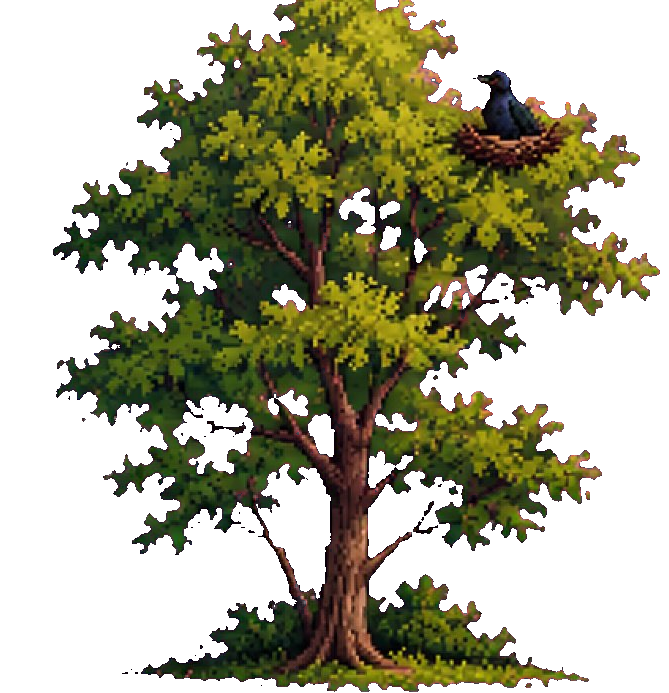
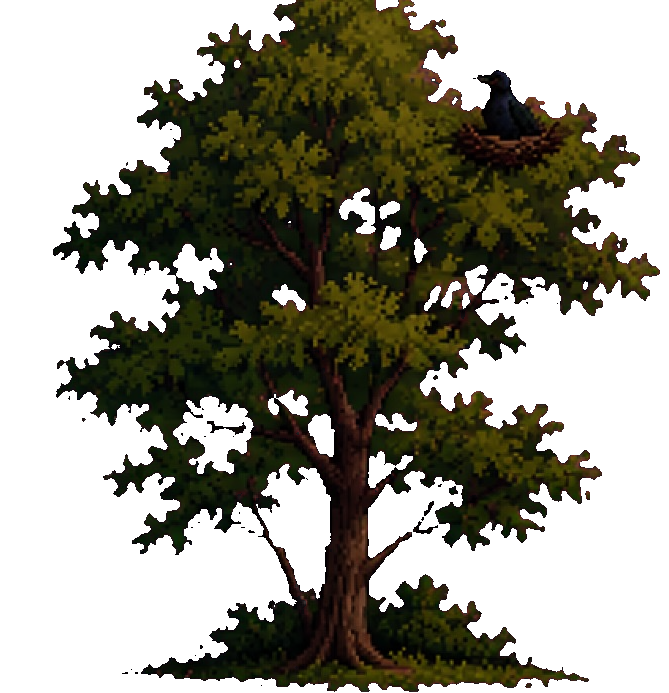
Nestbaum in Discount-Gasse, Weiche-Kraehe groesser (v76)

diff --git a/kaufvertrag_demo.html b/kaufvertrag_demo.html
@@ -956,7 +956,7 @@ ende: pxSzene('#000010', (R,D)=>{
    Liegen im Repo PNGs mit diesen Namen, werden sie automatisch
    statt der Pixel-Programme geladen. Fehlen sie: Pixel-Fallback.
    ===================================================== */
-const BILD_VERSION = '75';
+const BILD_VERSION = '76';
 function vurl(u){ return u + '?v=' + BILD_VERSION; }
 const SZENEN_BILDER = {
   titel:'kaufvertrag_titel.png',
@@ -1099,16 +1099,16 @@ const SPRITES = {
     { id:'trektor', frames:['figur_rektor_steh_3.png','figur_rektor_steh_3.png','figur_rektor_geh_0.png','figur_rektor_geh_1.png','figur_rektor_geh_2.png','figur_rektor_geh_3.png','figur_rektor_geh_4.png','figur_rektor_geh_5.png','figur_rektor_kopf_0.png','figur_rektor_kopf_1.png','figur_rektor_kopf_2.png','figur_rektor_kopf_5.png'], x:252, y:98, w:38, h:152 },
   ],
   weiche: [
-    { id:'kraehe', frames:['kaufvertrag_kraehe_0.png','kaufvertrag_kraehe_1.png','kaufvertrag_kraehe_2.png'], x:40, y:123, w:17, h:11.5 },
+    { id:'kraehe', frames:['kaufvertrag_kraehe_0.png','kaufvertrag_kraehe_1.png','kaufvertrag_kraehe_2.png'], x:37.4, y:119.6, w:22.1, h:15 },
   ],
   titel: [
-    { id:'nestbaum', frames:['kaufvertrag_nestbaum_0.png','kaufvertrag_nestbaum_1.png','kaufvertrag_nestbaum_2.png'], x:521.6, y:88, w:88.8, h:92 },
     { id:'taubeA', frames:['kaufvertrag_taube_a0.png','kaufvertrag_taube_a1.png'], x:336, y:186, w:18, h:12 },
     { id:'taubeB', frames:['kaufvertrag_taube_b0.png','kaufvertrag_taube_b1.png'], x:356, y:188, w:17, h:11 },
     { id:'auto', frames:['kaufvertrag_auto_0.png','kaufvertrag_auto_1.png','kaufvertrag_auto_2.png','kaufvertrag_auto_3.png','kaufvertrag_auto_4.png','kaufvertrag_auto_5.png','kaufvertrag_auto_6.png','kaufvertrag_auto_7.png','kaufvertrag_auto_8.png','kaufvertrag_auto_halt.png'],
       x:660, y:172, w:94, h:51 },
   ],
   discount: [
+    { id:'nestbaum', frames:['kaufvertrag_nestbaum_0.png','kaufvertrag_nestbaum_1.png','kaufvertrag_nestbaum_2.png'], x:452, y:121, w:78, h:81 },
     { id:'katze', frames:['kaufvertrag_katze_0.png','kaufvertrag_katze_1.png','kaufvertrag_katze_2.png',
       'kaufvertrag_katze_3.png','kaufvertrag_katze_4.png','kaufvertrag_katze_5.png','kaufvertrag_katze_6.png'],
       x:680, y:198, w:30, h:24 },
@@ -2334,7 +2334,7 @@ function nestStart(){
   if(reduzierteBewegung()) return;
   nestT.t = setInterval(()=>{
     const e = document.getElementById('sp-nestbaum');
-    if(!e || aktuelleSzeneId!=='titel') return;
+    if(!e || aktuelleSzeneId!=='discount') return;
     const z = Math.random();
     e.setAttribute('href', vurl(NESTBAUM_FRAMES[z<0.66?0:(z<0.9?2:1)]));
   }, 4500);
@@ -2347,7 +2347,7 @@ function tiereWechsel(szene){
   if(szene==='titel') autoStart(); else autoStop();
   if(szene==='schule'){ lehrerStart(); } else { lehrerStop(); }
   if(szene==='weiche'){ kraeheStart(); } else { kraeheStop(); }
-  if(szene==='titel'){ nestStart(); } else { nestStop(); }
+  if(szene==='discount'){ nestStart(); } else { nestStop(); }
   rektorStop();
   if(szene==='treppe'){ treppenAuftritt(); } else { auftrittStop(); gespraechStop(); }
   if(szene==='discount') katzeStart(); else katzeStop();

diff --git a/kaufvertrag_fd642d69.html b/kaufvertrag_fd642d69.html
@@ -957,7 +957,7 @@ ende: pxSzene('#000010', (R,D)=>{
    Liegen im Repo PNGs mit diesen Namen, werden sie automatisch
    statt der Pixel-Programme geladen. Fehlen sie: Pixel-Fallback.
    ===================================================== */
-const BILD_VERSION = '75';
+const BILD_VERSION = '76';
 function vurl(u){ return u + '?v=' + BILD_VERSION; }
 const SZENEN_BILDER = {
   titel:'kaufvertrag_titel.png',
@@ -1100,16 +1100,16 @@ const SPRITES = {
     { id:'trektor', frames:['figur_rektor_steh_3.png','figur_rektor_steh_3.png','figur_rektor_geh_0.png','figur_rektor_geh_1.png','figur_rektor_geh_2.png','figur_rektor_geh_3.png','figur_rektor_geh_4.png','figur_rektor_geh_5.png','figur_rektor_kopf_0.png','figur_rektor_kopf_1.png','figur_rektor_kopf_2.png','figur_rektor_kopf_5.png'], x:252, y:98, w:38, h:152 },
   ],
   weiche: [
-    { id:'kraehe', frames:['kaufvertrag_kraehe_0.png','kaufvertrag_kraehe_1.png','kaufvertrag_kraehe_2.png'], x:40, y:123, w:17, h:11.5 },
+    { id:'kraehe', frames:['kaufvertrag_kraehe_0.png','kaufvertrag_kraehe_1.png','kaufvertrag_kraehe_2.png'], x:37.4, y:119.6, w:22.1, h:15 },
   ],
   titel: [
-    { id:'nestbaum', frames:['kaufvertrag_nestbaum_0.png','kaufvertrag_nestbaum_1.png','kaufvertrag_nestbaum_2.png'], x:521.6, y:88, w:88.8, h:92 },
     { id:'taubeA', frames:['kaufvertrag_taube_a0.png','kaufvertrag_taube_a1.png'], x:336, y:186, w:18, h:12 },
     { id:'taubeB', frames:['kaufvertrag_taube_b0.png','kaufvertrag_taube_b1.png'], x:356, y:188, w:17, h:11 },
     { id:'auto', frames:['kaufvertrag_auto_0.png','kaufvertrag_auto_1.png','kaufvertrag_auto_2.png','kaufvertrag_auto_3.png','kaufvertrag_auto_4.png','kaufvertrag_auto_5.png','kaufvertrag_auto_6.png','kaufvertrag_auto_7.png','kaufvertrag_auto_8.png','kaufvertrag_auto_halt.png'],
       x:660, y:172, w:94, h:51 },
   ],
   discount: [
+    { id:'nestbaum', frames:['kaufvertrag_nestbaum_0.png','kaufvertrag_nestbaum_1.png','kaufvertrag_nestbaum_2.png'], x:452, y:121, w:78, h:81 },
     { id:'katze', frames:['kaufvertrag_katze_0.png','kaufvertrag_katze_1.png','kaufvertrag_katze_2.png',
       'kaufvertrag_katze_3.png','kaufvertrag_katze_4.png','kaufvertrag_katze_5.png','kaufvertrag_katze_6.png'],
       x:680, y:198, w:30, h:24 },
@@ -2335,7 +2335,7 @@ function nestStart(){
   if(reduzierteBewegung()) return;
   nestT.t = setInterval(()=>{
     const e = document.getElementById('sp-nestbaum');
-    if(!e || aktuelleSzeneId!=='titel') return;
+    if(!e || aktuelleSzeneId!=='discount') return;
     const z = Math.random();
     e.setAttribute('href', vurl(NESTBAUM_FRAMES[z<0.66?0:(z<0.9?2:1)]));
   }, 4500);
@@ -2348,7 +2348,7 @@ function tiereWechsel(szene){
   if(szene==='titel') autoStart(); else autoStop();
   if(szene==='schule'){ lehrerStart(); } else { lehrerStop(); }
   if(szene==='weiche'){ kraeheStart(); } else { kraeheStop(); }
-  if(szene==='titel'){ nestStart(); } else { nestStop(); }
+  if(szene==='discount'){ nestStart(); } else { nestStop(); }
   rektorStop();
   if(szene==='treppe'){ treppenAuftritt(); } else { auftrittStop(); gespraechStop(); }
   if(szene==='discount') katzeStart(); else katzeStop();
